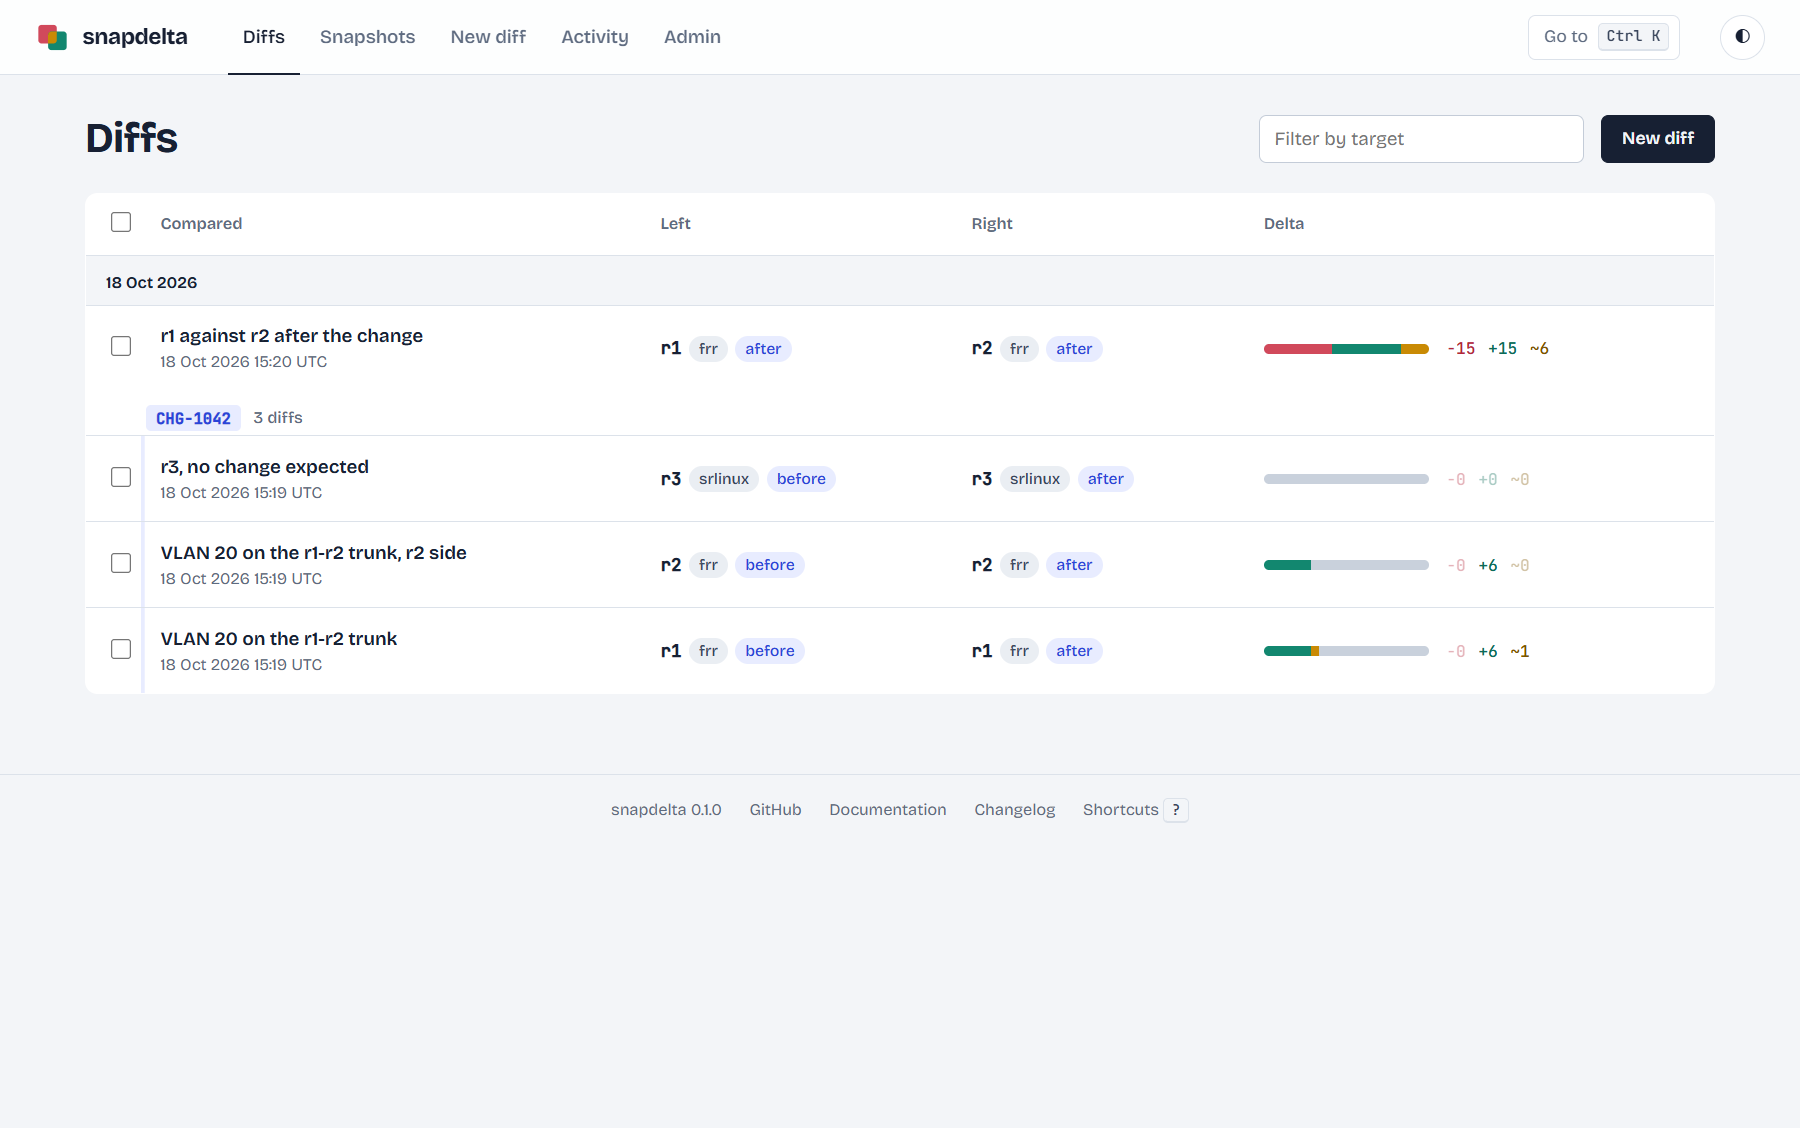
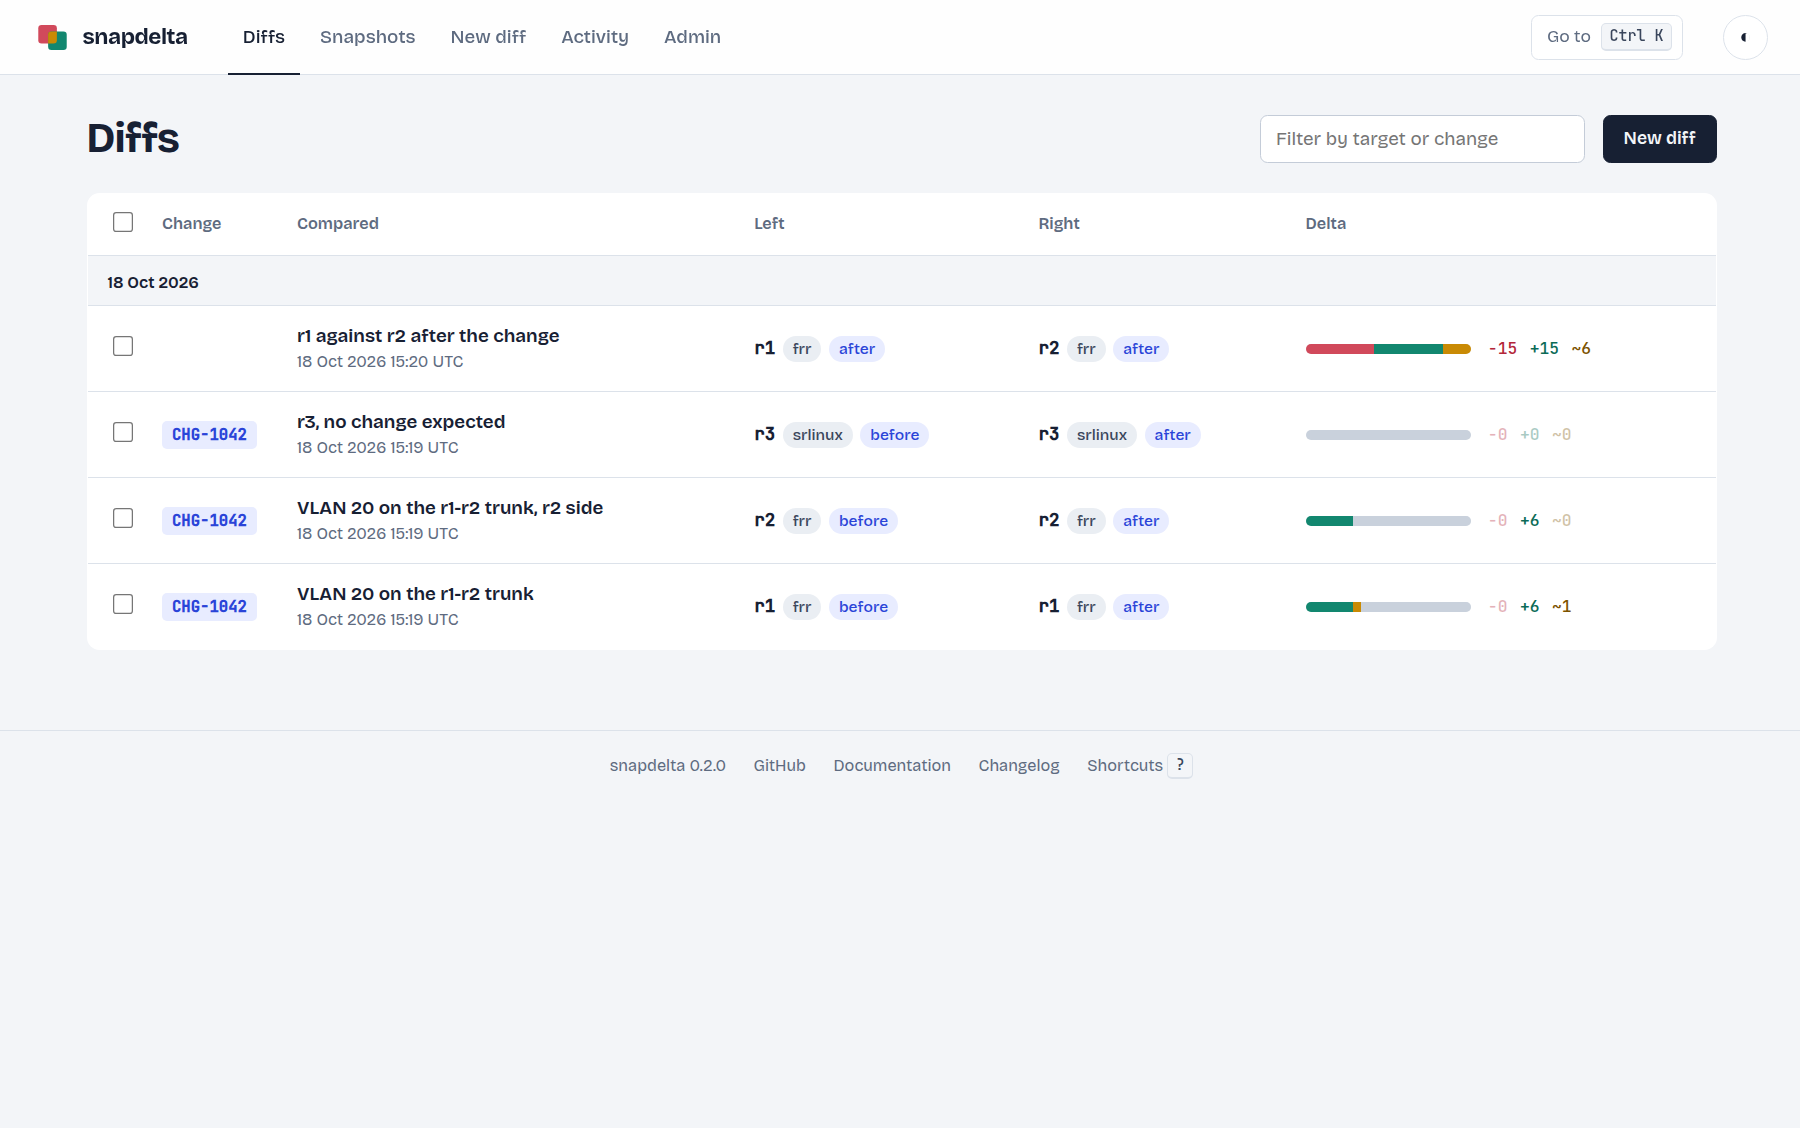
docs: show the change of a diff in the guides and screenshots

diff --git a/docs/web-ui.md b/docs/web-ui.md
@@ -6,13 +6,13 @@
 snapdelta-web                         # http://127.0.0.1:8765
 ```
 
-**Ctrl+K** (Cmd+K on a Mac), or **Go to** in the top bar, opens a search of the targets, the diffs (by title or target) and the pages; the arrows choose, Enter opens. **?**, or **Shortcuts** in the footer, lists every keyboard shortcut.
+**Ctrl+K** (Cmd+K on a Mac), or **Go to** in the top bar, opens a search of the targets, the diffs (by change, title or target) and the pages; the arrows choose, Enter opens. **?**, or **Shortcuts** in the footer, lists every keyboard shortcut.
 
 ## A diff
 
 ![A diff: two sides, delta strip, filters, cards](images/screenshots/diff.png)
 
-- The title and the description say what the diff is about; **Edit title** changes them.
+- The change (the ticket or issue that the diff belongs to), the title and the description; **Edit** changes them.
 - The two sides, left in red and right in green, then the delta strip: only left, only right, changed, unchanged. **All models** gives the counts of the whole diff.
 - The chips filter the cards of the selected model; the search finds names and values; both stay in the URL, so a link opens the same view. **Only changed attributes** hides the values that did not change.
 - From the keyboard: `j` and `k` go to the next and the previous object, `a` accepts it, `c` copies its link, `o` and `h` switch **Only changed attributes** and **Hide accepted**.
@@ -27,7 +27,7 @@ snapdelta-web                         # http://127.0.0.1:8765
 
 ![The list of diffs with their titles and delta strips](images/screenshots/diffs.png)
 
-Every saved diff, newest first, with its title, its two sides and a delta strip; the search filters by target. The rows come by day, and the diffs of one change sit together under its name: the start of the title before `: `, so `CHG-1042: VLAN 20, r1` and `CHG-1042: VLAN 20, r2` group under `CHG-1042`.
+Every saved diff, newest first and by day, with its change, its title, its two sides and a delta strip; the search filters by target or change, so `CHG-1042` lists every diff of that change. The change is any reference of the work (a ticket, an issue): give it in **New diff**, with `--change`, or later on the page of the diff.
 
 ## The snapshots of a target
 
@@ -51,9 +51,9 @@ The metadata of the load (time, models, inputs, warnings), then one table per mo
 
 A switch at the top gives **One target** (the default) or **Many targets**.
 
-**One target**: choose a target, then a snapshot, for **Before** and **After**; with an inventory, a group list filters the targets. The After side takes the target of the Before side until you choose another one for it. Then the models in common, a title, a description and a profile. **⇄** between the two sides swaps them; **Before → after** selects the newest snapshots labelled `before` and `after` of the target of the Before side.
+**One target**: choose a target, then a snapshot, for **Before** and **After**; with an inventory, a group list filters the targets. The After side takes the target of the Before side until you choose another one for it. Then the models in common, a change, a title, a description and a profile. **⇄** between the two sides swaps them; **Before → after** selects the newest snapshots labelled `before` and `after` of the target of the Before side.
 
-**Many targets** compares `TARGET@BEFORE` with `TARGET@AFTER` for each host of a group (the page lists its hosts), or for each target of the store that has a Before snapshot; **Now** on the After side takes it from the targets, at the same time. It has the same title, description and profile as One target. The page that follows lists each target as changed, unchanged or failed, with the link of its diff.
+**Many targets** compares `TARGET@BEFORE` with `TARGET@AFTER` for each host of a group (the page lists its hosts), or for each target of the store that has a Before snapshot; **Now** on the After side takes it from the targets, at the same time. It has the same change, title, description and profile as One target, and gives them to each diff. The page that follows lists each target as changed, unchanged or failed, with the link of its diff.
 
 ## Activity
 

diff --git a/docs/output.md b/docs/output.md
@@ -29,7 +29,8 @@ The output then keeps `expectations`: the expected changes `done`, the `missing`
   "summary": {"create": 65, "update": 30, "delete": 31, "no-change": 10, "skip": 0},
   "diff": {"...": "see below"},
   "profile": null,
-  "title": "CHG-1042 on PE1",
+  "change": "CHG-1042",
+  "title": "Swap of PE1 to PE2",
   "description": null,
   "reviews": {"interface:ge-0/0/6": {"by": "alice", "at": "2026-10-13T07:40:02Z", "comment": "planned"}}
 }
@@ -44,6 +45,7 @@ The output then keeps `expectations`: the expected changes `done`, the `missing`
 | `summary` | The diffsync counts: `create` = only right, `delete` = only left, `update` = changed, `no-change` = unchanged; children included |
 | `diff` | The diffsync `Diff.dict()`, below |
 | `profile` | The profile of the compare, its rules and its count checks, or `null`; see [profiles.md](profiles.md) |
+| `change` | The work that the diff belongs to (a ticket, an issue, any reference), or `null`; given at the compare or later (`snapdelta describe`), and found by the searches of diffs |
 | `title`, `description` | What the diff is about, given at the compare or later (`snapdelta describe`) |
 | `reviews` | The changes that a person accepted, by `MODEL:UNIQUE_ID` of the changed object: who, when, and an optional comment (`snapdelta accept`, **Accept** in the web UI) |
 

diff --git a/lab/example/README.md b/lab/example/README.md
@@ -164,11 +164,12 @@ All the commands run in `lab/example`, so snapdelta reads the settings file of t
 5. Compare before and after for r1 (`r1@before` is the newest snapshot of r1 with the label `before`):
 
    ```bash
-   uv run snapdelta diff r1@before r1@after --title "CHG-1042: VLAN 20, r1"
+   uv run snapdelta diff r1@before r1@after --change CHG-1042 --title "VLAN 20, r1"
    ```
 
    ```
-   title: CHG-1042: VLAN 20, r1
+   change: CHG-1042
+   title: VLAN 20, r1
 
    left:  r1 [before] frr 2026-10-13T18:30:26+00:00
    right: r1 [after] frr 2026-10-13T18:30:31+00:00
